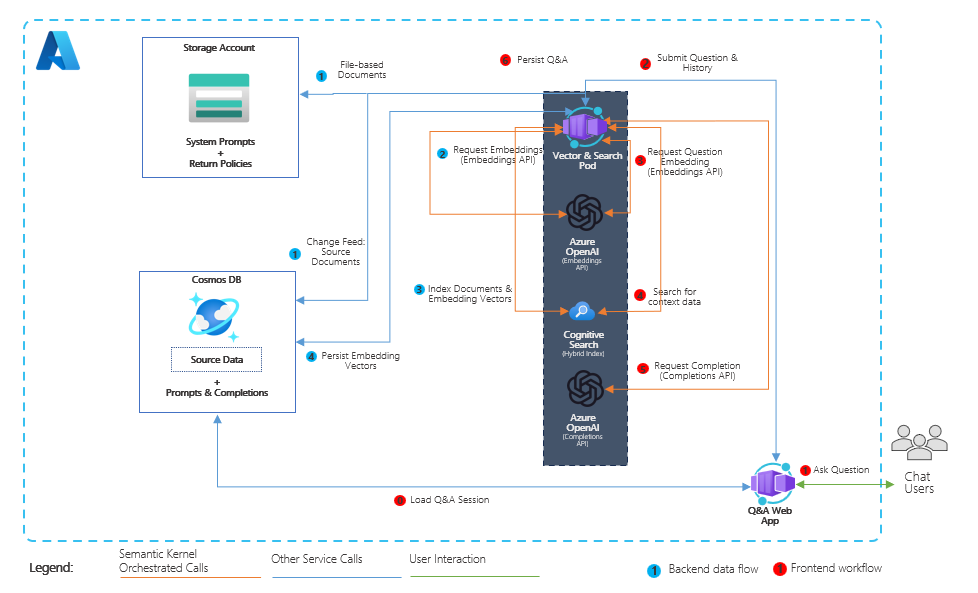
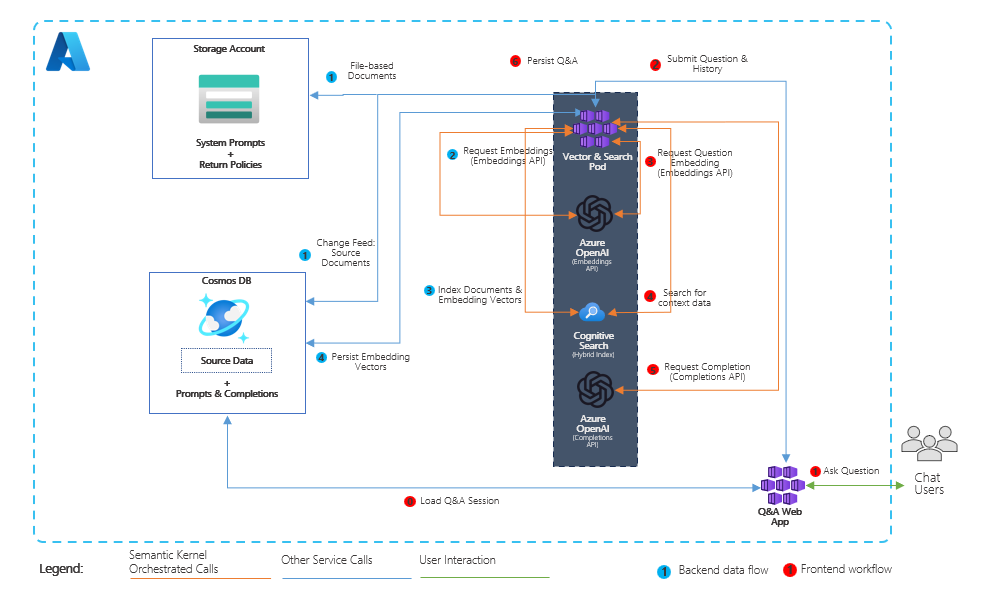
update readme and architecture diagram

diff --git a/README.md b/README.md
@@ -23,6 +23,7 @@ This hackathon will challenge you and your team to launch a POC of a chat interf
 - .NET 7 SDK
 - Docker Desktop
 - Azure CLI 2.49.0
+- Helm v3.11.1 or greater - https://helm.sh/ (for AKS)
 - Subscription with access to the Azure OpenAI Service. Start here to [Request Access to Azure OpenAI Service](https://customervoice.microsoft.com/Pages/ResponsePage.aspx?id=v4j5cvGGr0GRqy180BHbR7en2Ais5pxKtso_Pz4b1_xUOFA5Qk1UWDRBMjg0WFhPMkIzTzhKQ1dWNyQlQCN0PWcu)
 
 ## Setting up your development environment
@@ -43,10 +44,10 @@ git checkout main
 
 1. Open the PowerShell command line and navigate to the directory where you cloned the repo.
 2. Navigate into the `starter-artifacts\code\VectorSearchAiAssistant` folder.
-3. Run the following PowerShell script to provision the infrastructure and deploy the API and frontend. Provide the name of a NEW resource group that will be created. This will provision all of the required infrastructure, deploy the API and web app services into Azure Container Apps (ACA), and import data into Cosmos. 
+3. Run the following PowerShell script to provision the infrastructure and deploy the API and frontend. Provide the name of a NEW resource group that will be created. This will provision all of the required infrastructure, deploy the API and web app services into Azure Kubernetes Service (AKS) if using the deployAks flag below or Azure Container Apps (ACA), and import data into Cosmos DB. 
 
 ```pwsh
-./scripts/Starter-Deploy.ps1  -resourceGroup <resource-group-name> -location <location> -subscription <subscription-id>
+./scripts/Starter-Deploy.ps1  -resourceGroup <resource-group-name> -location <location> -subscription <subscription-id> -deployAks 1
 ```
 
 >**NOTE**:
@@ -61,23 +62,24 @@ git checkout main
 >```pwsh
 >-openAiName <open-ai-name> -openAiRg <open-ai-resource-group> -openAiCompletionsDeployment <completions-deployment-name> -openAiEmbeddingsDeployment <embeddings-deployment-name> -stepDeployOpenAi $false
 >```
->In case you will defer the Open AI deployment to the script, make sure have enough TPM (Tokens Per Minute (thousands)) quota available in your subscription. By default, the script will attempt to set a value of 120K for each deployment. In case you need to change this value, you can edit lines 22 and 29 in the `starter-artifacts\code\VectorSearchAiAssistant\scripts\Deploy-OpenAi.ps1` file.
+>In case you will defer the Open AI deployment to the script, make sure have enough Tokens Per Minute (TPM) in thousands quota available in your subscription. By default, the script will attempt to set a value of 120K for each deployment. In case you need to change this value, you can edit lines 22 and 29 in the `starter-artifacts\code\VectorSearchAiAssistant\scripts\Deploy-OpenAi.ps1` file.
 
 >If using your own Azure OpenAI account, it will be necessary to update the appsettings.json file in the `ChatServiceWebApi` project to use the model deployment names used in your existing Azure OpenAI account. See **Configure Local Settings section below** for more details.
 
 ### Decide on the containerization approach
 
 The deployment script supports two types of containerization:
-- [Azure Container Apps - ACA](https://azure.microsoft.com/products/container-apps) - this is default option. It allows you to deploy containerized applications without having to manage the underlying infrastructure, thus being the easiest option to get started with.
 - [Azure Kubernetes Service - AKS](https://azure.microsoft.com/services/kubernetes-service) - this option allows you to deploy the application into an AKS cluster. This option is more complex to set up, but it provides more flexibility and control over the deployment. To use AKS, pass the following parameter to the deployment script:
     ```pwsh
     -deployAks $true
     ```
-For the purpose of this hackathon, we recommend using Azure Container Apps. Depending on your preference, you can choose to use AKS instead.
+- [Azure Container Apps - ACA](https://azure.microsoft.com/products/container-apps) - this option allows you to deploy containerized applications without having to manage the underlying infrastructure and thus is an easier option to get started with.
+
+For the purpose of this hackathon, you can whatever your preference is, either AKS or ACA.
 
 >**NOTE**:
 >
->For the reminder of this hackathon, please interpret any documentation references to `AKS` as `ACA` if you chose to use Azure Container Apps (and viceversa).
+>For the reminder of this hackathon, please interpret any documentation references to `AKS` as `ACA` if you chose to use Azure Container Apps (and vice-versa).
 
 ### Verify initial deployment
 
@@ -110,7 +112,7 @@ After the deployment is complete the following Azure services will be deployed.
 - Azure Cosmos DB
 - Azure Cognitive Search
 - Azure Container Apps (or AKS) 
-- Azure Storage (*not pictured*)
+- Azure Storage
 - Azure Networking (*not pictured*)
 
 <p align="center">
